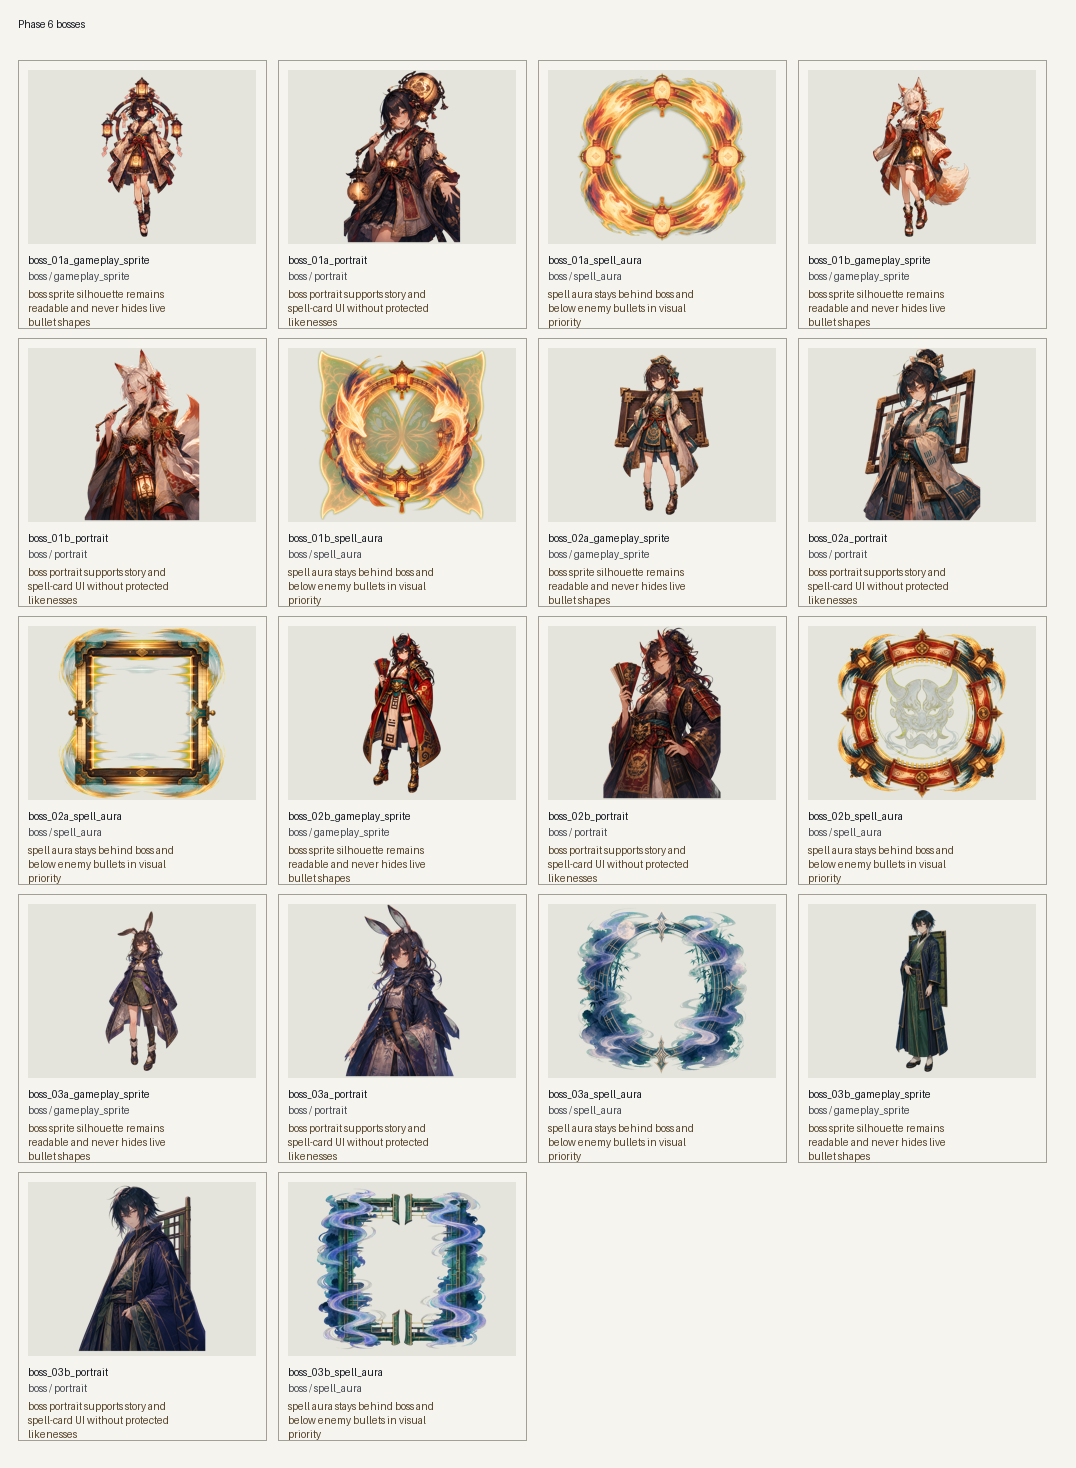
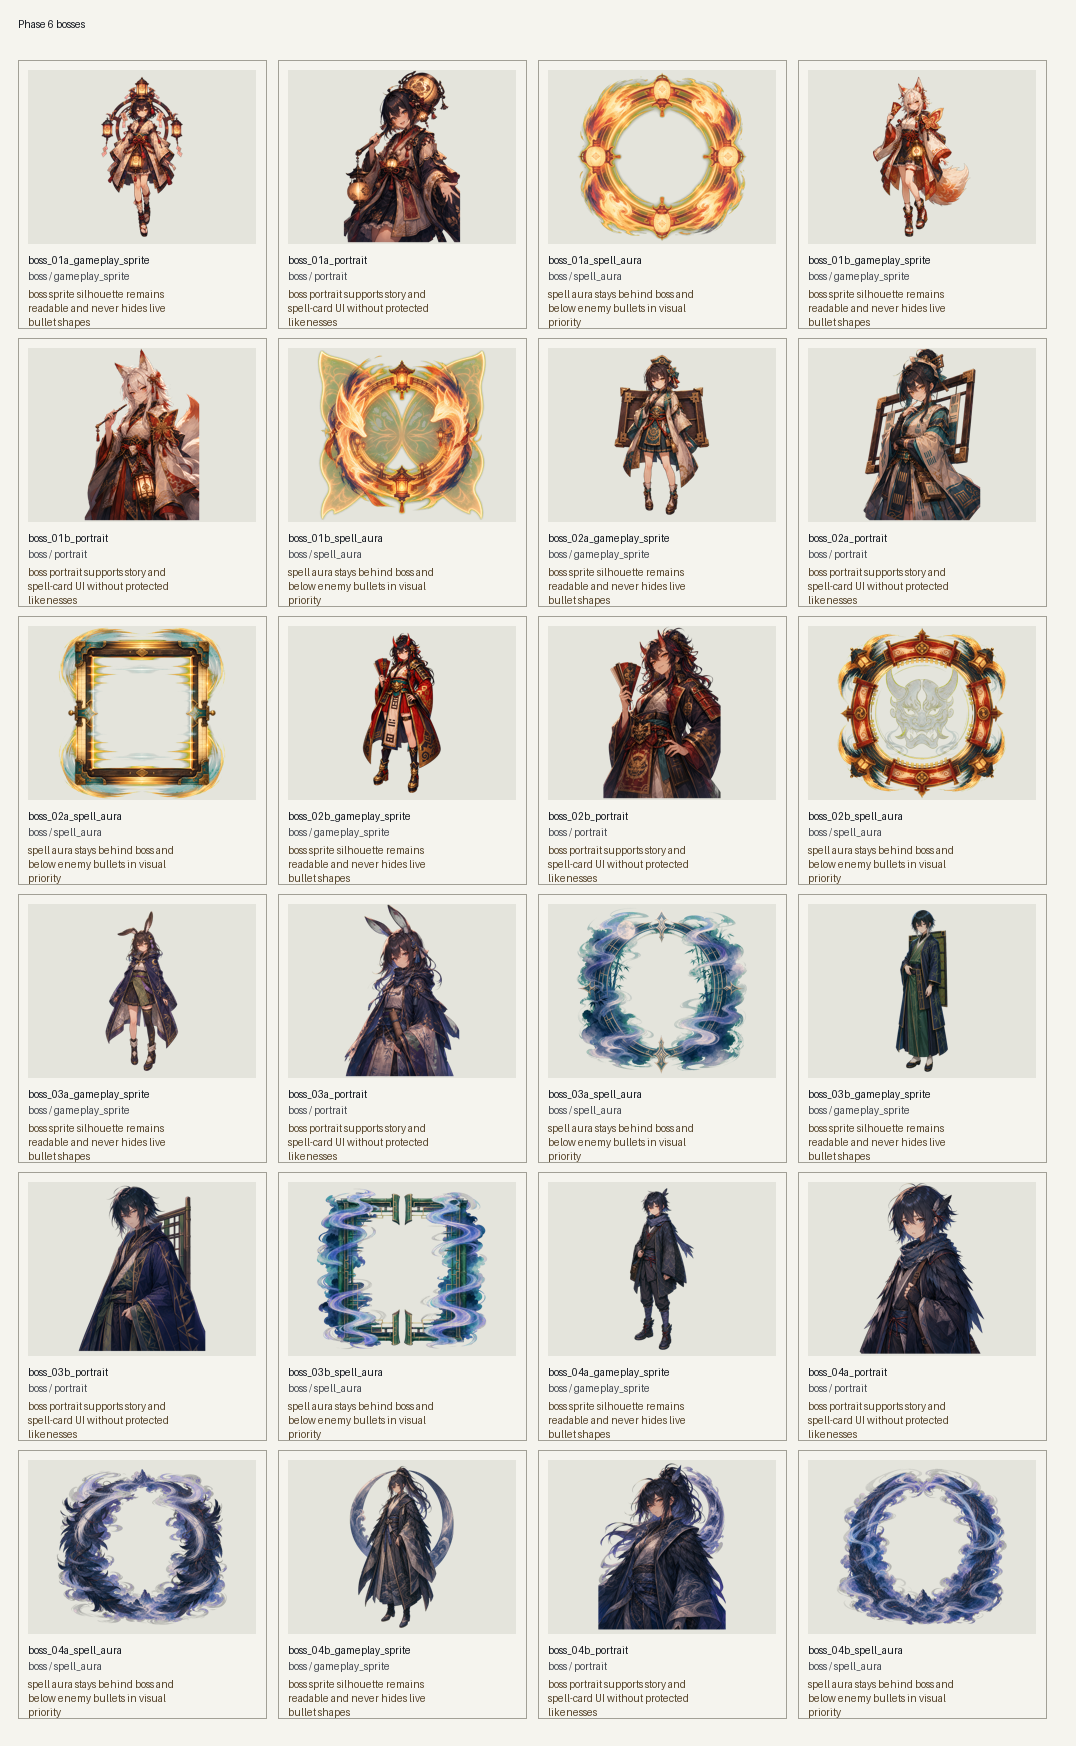
feat: add phase 6 boss art stage 4

diff --git a/docs/art/review/phase6_asset_acceptance.md b/docs/art/review/phase6_asset_acceptance.md
@@ -30,3 +30,9 @@
 | boss_03b_gameplay_sprite | accepted | Slim vertical silhouette with rectangular bamboo screen; no floating bamboo shards, round mirrors, bead rows, or spark particles. | Matches Oboro bamboo illusionist direction and stays distinct from Sena. | Regenerated until gold diamond and dangling ornament risks were removed. |
 | boss_03b_portrait | accepted | Portrait detail stays UI/story-only; no floating talisman sheets or projectile-like ornaments. | Matches hand-painted moonlit bamboo illusionist concept. | Rectangular trim is acceptable in portrait context. |
 | boss_03b_spell_aura | accepted | Large split-bamboo gate and broad mist bands leave an open center; no dots, bead rings, stars, or needle-like shards. | Matches Stage 3 bamboo illusion aura language. | Used behind boss only and below live bullets. |
+| boss_04a_gameplay_sprite | accepted | Compact dark-feather courier silhouette; no loose paper sheets, visible writing, camera, fan, or talisman-like panels. | Matches Stage 4 rookie crow courier direction. | Regenerated to remove wide wings and paper/text clutter. |
+| boss_04a_portrait | accepted | Portrait feather detail stays UI/story-only; no report text, camera, or protected tengu costume markers. | Matches hand-painted high-altitude wind palette. | Feather hair accent is portrait-only and non-projectile. |
+| boss_04a_spell_aura | accepted | Broad wind-and-feather mantle leaves a clear center; feathers are connected background masses, not tiny projectiles. | Matches Stage 4 mountain wind aura. | Used behind boss only and below live bullets. |
+| boss_04b_gameplay_sprite | accepted | Commanding wind-boss silhouette uses one large crescent back-frame; no compass stars, paper strips, camera, fan, or dangling item-like charms. | Matches Kasumi mountain wind sovereign direction. | Regenerated after rejecting compass-star and charm clutter. |
+| boss_04b_portrait | accepted | Portrait-only crescent and feather details stay large and non-projectile; no protected reporter-tengu markers. | Matches Stage 4 storm authority palette. | Hair feather is a UI detail, not gameplay debris. |
+| boss_04b_spell_aura | accepted | Thick connected storm-feather crescent leaves open center; no star, bead, talisman, newspaper, or needle-streak clutter. | Matches Stage 4 main-boss wind pressure aura. | Used behind boss only and below live bullets. |

diff --git a/docs/art/review/phase6_contact_sheets.md b/docs/art/review/phase6_contact_sheets.md
@@ -2,5 +2,5 @@
 
 | Sheet | Accepted assets | Output | Notes |
 | --- | ---: | --- | --- |
-| bosses | 18 | `phase6_contact_sheet_bosses.png` | ready for review |
-| gameplay_readability | 27 | `phase6_contact_sheet_gameplay_readability.png` | ready for review |
+| bosses | 24 | `phase6_contact_sheet_bosses.png` | ready for review |
+| gameplay_readability | 33 | `phase6_contact_sheet_gameplay_readability.png` | ready for review |
